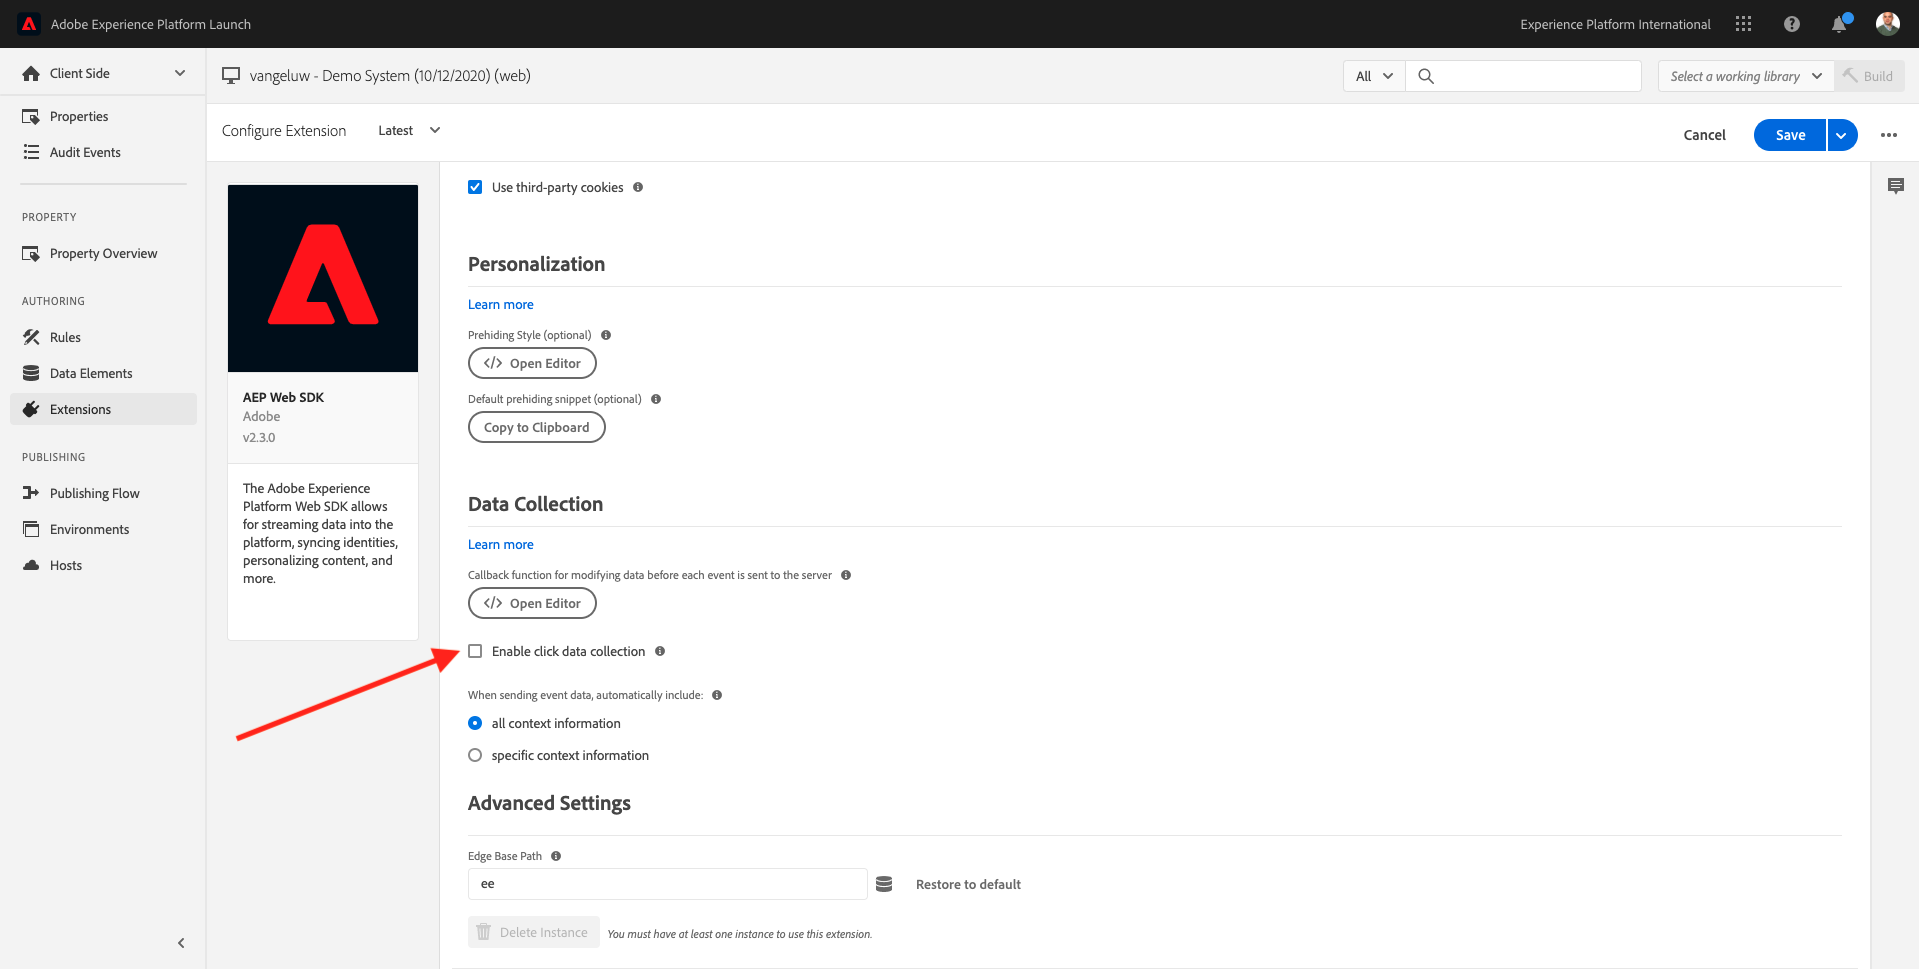
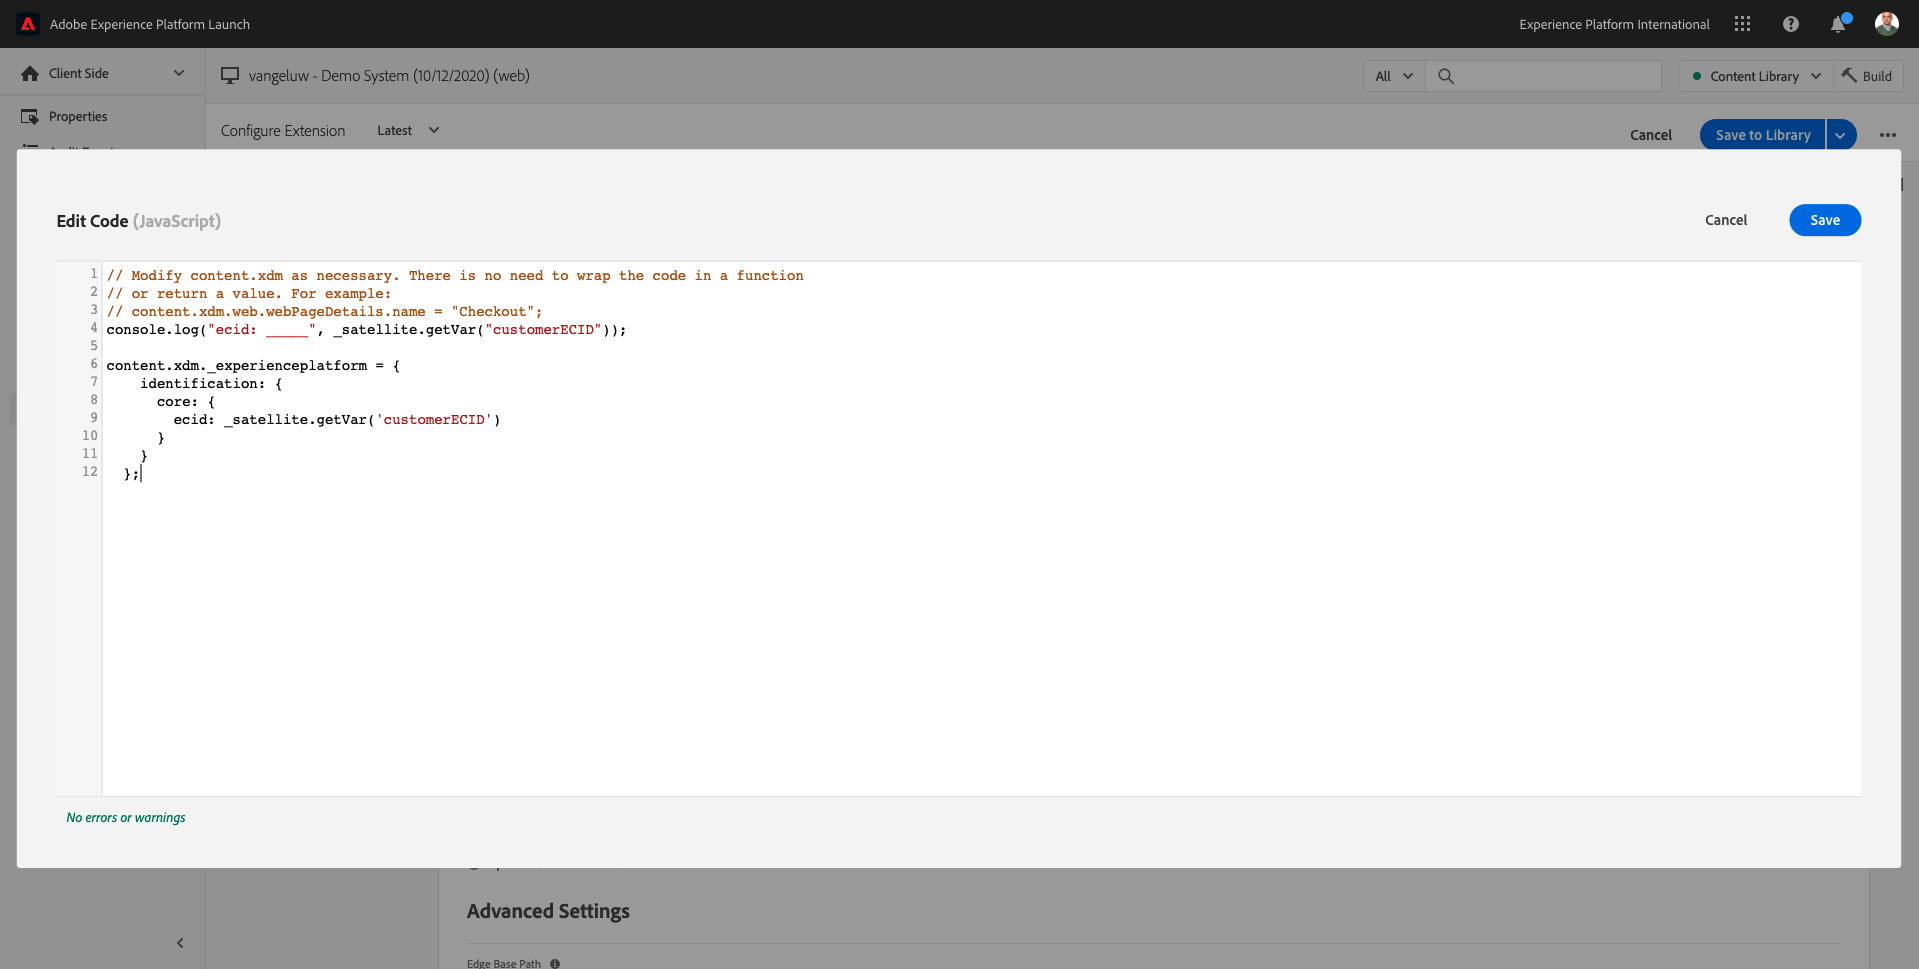
update to exercise 0.2

diff --git a/help/tutorial-comprehensive-technical-v21/modules/module0/ex2.md b/help/tutorial-comprehensive-technical-v21/modules/module0/ex2.md
@@ -87,9 +87,29 @@ Scroll down until you see **Data Collection**.
 
 ![Name the Edge Configuration and save](./images/edgeconfig14a.png)
 
-Uncheck the checkbox for **Enable click data collection**. Click **Save** to save your changes.
+Click **Open Editor**.
+
+Paste this code in the popup:
+
+```javascript
+// Modify content.xdm as necessary. There is no need to wrap the code in a function
+// or return a value. For example:
+// content.xdm.web.webPageDetails.name = "Checkout";
+console.log("ecid: _____", _satellite.getVar("customerECID"));
+
+content.xdm.--aepTenantId-- = {
+    identification: {
+      core: {
+        ecid: _satellite.getVar('customerECID')
+      }
+    }
+  };
+```
 
 ![Name the Edge Configuration and save](./images/edgeconfig14b.png)
+
+Click **Save** to save your changes.
+
 
 Go to **Publishing Flow**.
 
